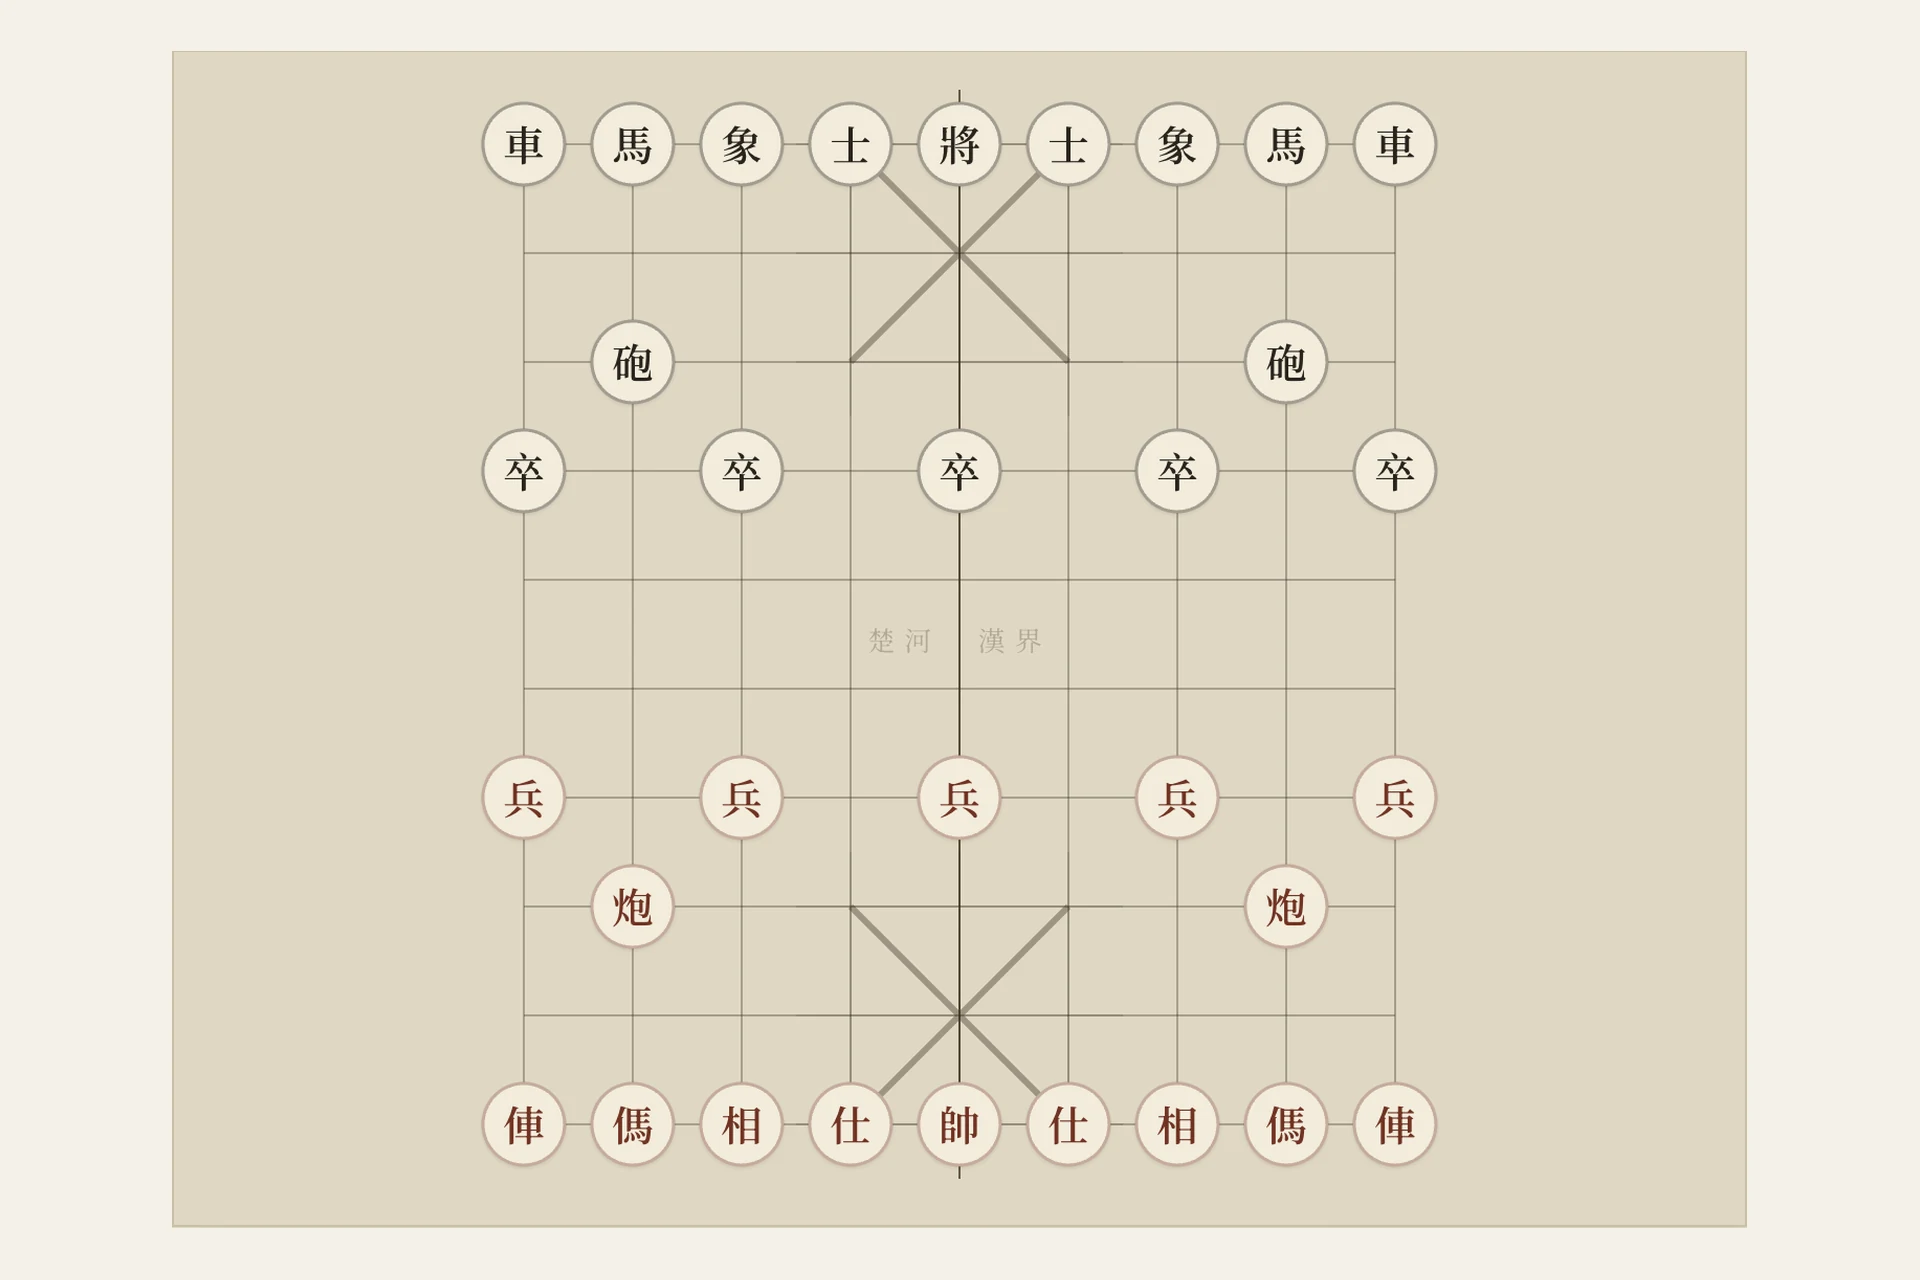
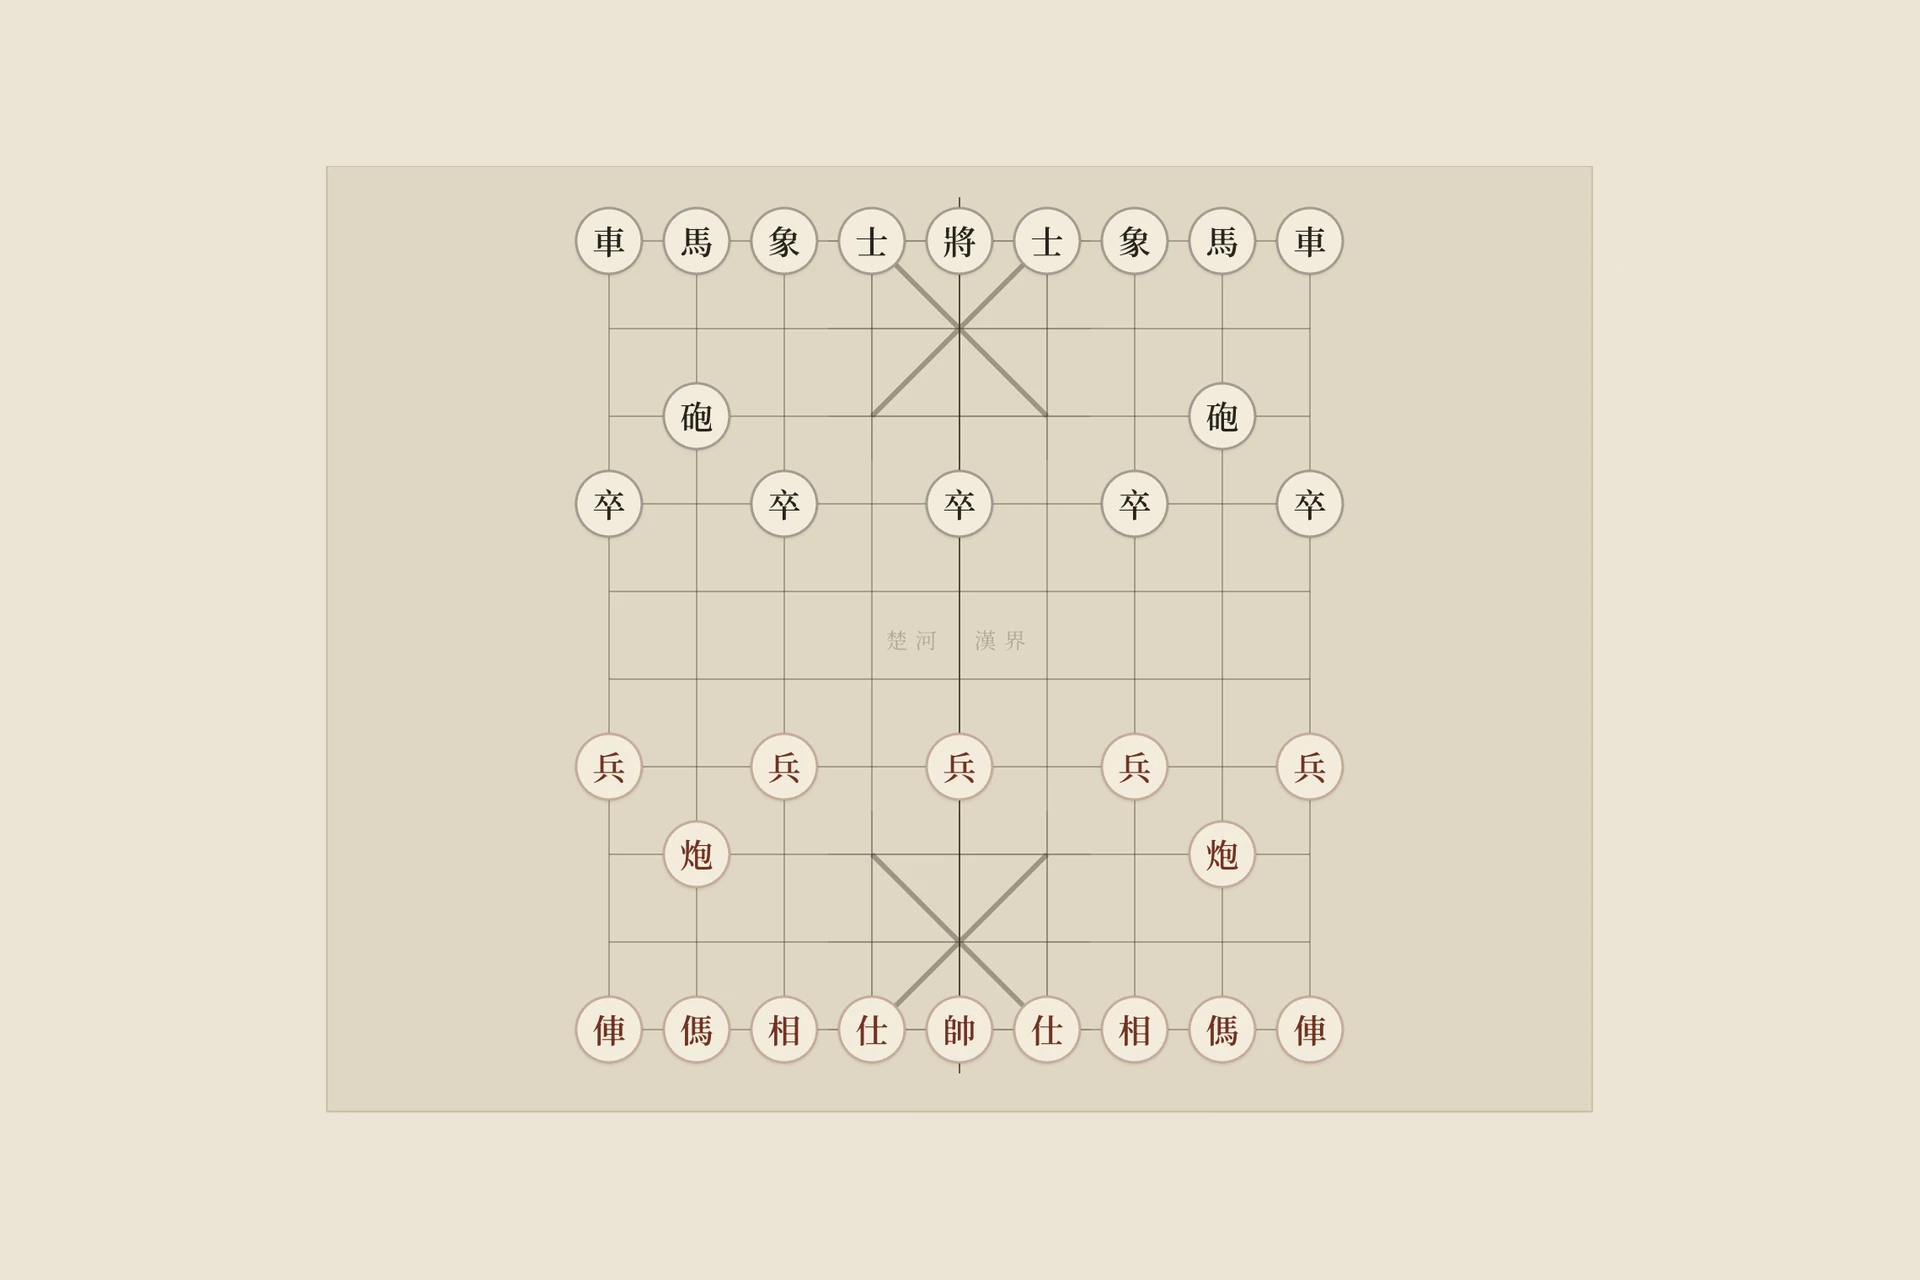
Polish Xiangqi to ship-quality: copy, schema, hints, on-brand share art.
Trim the hub card, add a no-JS fallback and richer VideoGame JSON-LD, drop the redundant hint stripe, and regenerate the cover/OG from a clean live board with the title typeset in the site's own serif. Live-verified play, undo, flip, and real-engine notation.

Changed region(s): [[0.25, 0.0625, 0.75, 0.5625], [0.25, 0.5, 0.75, 0.9375]]

diff --git a/minigames/xiangqi/index.html b/minigames/xiangqi/index.html
@@ -33,16 +33,28 @@
   "name": "紙上象棋",
   "url": "https://yykan.uk/minigames/xiangqi/",
   "description": "一盤你可以輸得明白嘅象棋：行完一盤，陪你睇返邊一步改變咗全局、點解、本來可以點行。",
+  "image": "https://yykan.uk/images/og-xiangqi.png",
   "inLanguage": ["zh-HK", "en-GB"],
   "applicationCategory": "Game",
+  "genre": "Board game",
+  "playMode": "SinglePlayer",
   "gamePlatform": "Web browser",
+  "operatingSystem": "Any modern web browser",
   "isPartOf": { "@type": "WebSite", "name": "言又勤", "url": "https://yykan.uk/" },
   "author": { "@type": "Person", "name": "言又勤", "alternateName": "Yin Yau Kan" }
 }
 </script>
 </head>
 <body>
-  <div id="app"></div>
+  <div id="app">
+    <noscript>
+      <p style="max-width: 32rem; margin: 15vh auto; padding: 0 1.5rem; font-family: Georgia, 'Noto Serif HK', serif; line-height: 1.7; text-align: center; color: #3d2f1f;">
+        紙上象棋要開住 JavaScript 先行到。開返之後 refresh 一次，就可以同引擎行一盤，完局幫你覆盤。<br><br>
+        <span lang="en">Xiangqi on Linen needs JavaScript enabled — turn it on and reload to play, then review.</span><br><br>
+        <a href="/minigames/" style="color: #3a5a3a;">← 返去小遊戲</a>
+      </p>
+    </noscript>
+  </div>
   <script type="module">
     import { boot } from './src/main.js';
     boot(document.getElementById('app'));

diff --git a/minigames/xiangqi/game.css b/minigames/xiangqi/game.css
@@ -219,16 +219,6 @@ button, select {
   box-shadow: 0 0 0 2px var(--accent);
 }
 
-.xq-cell.is-hint::before {
-  background: var(--accent);
-  width: 2px;
-}
-
-.xq-cell.is-hint:not(:has(.xq-piece)) .xq-hint-dot,
-.xq-cell.is-hint:not(:has(.xq-piece))::after {
-  /* destination hint: soft accent node */
-}
-
 .xq-cell.is-hint:not(:has(.xq-piece)) {
   background: radial-gradient(circle at center, rgba(58, 90, 58, 0.35) 0 14%, transparent 15%);
 }

diff --git a/minigames/index.html b/minigames/index.html
@@ -115,7 +115,7 @@
     },
     {
       title: "紙上象棋 · Xiangqi on Linen",
-      excerpt: "唔一定要識玩先嚟。行完一盤，佢會陪你睇返：邊一步改變咗全局、點解、本來可以點行。A quiet game of Chinese chess — play, then see what actually mattered.",
+      excerpt: "行完一盤，佢會陪你睇返：邊一步改變咗全局、點解、本來可以點行。A quiet game of Chinese chess — play, then see what actually mattered.",
       cover: "/images/xiangqi-cover.webp",
       url: "/minigames/xiangqi/",
       tags: ["象棋", "board"],

diff --git a/kanblog-architecture.md b/kanblog-architecture.md
@@ -339,7 +339,7 @@ Vite re-hashes `index-<hash>.js/.css` on every build, so **updating the game = u
 
 | Date | Change |
 |---|---|
-| **2026-07-19 — 紙上象棋 · Xiangqi on Linen** | New MiniGame at `/minigames/xiangqi/`: Library Linen Chinese chess with complete rules, a vendored Pikafish WebAssembly engine running in a Worker, three thinking-time levels, and Pikafish-powered post-game review. Move history and review now use familiar Chinese notation (`炮二平五`) instead of raw ICCS coordinates, with replay buttons for the played and recommended moves. A small alpha-beta engine remains as a graceful fallback. The game route is cross-origin isolated for Pikafish `SharedArrayBuffer`; GPLv3, source provenance and pinned binary hashes are shipped beside the engine. Game Contract registrations, live-game screenshot cover (`images/xiangqi-cover.webp`), and share image (`images/og-xiangqi.png`) are included. |
+| **2026-07-19 — 紙上象棋 · Xiangqi on Linen** | New MiniGame at `/minigames/xiangqi/`: Library Linen Chinese chess with complete rules, a vendored Pikafish WebAssembly engine running in a Worker, three thinking-time levels, and Pikafish-powered post-game review. Move history and review now use familiar Chinese notation (`炮二平五`) instead of raw ICCS coordinates, with replay buttons for the played and recommended moves. A small alpha-beta engine remains as a graceful fallback. The game route is cross-origin isolated for Pikafish `SharedArrayBuffer`; GPLv3, source provenance and pinned binary hashes are shipped beside the engine. Game Contract registrations, live-game screenshot cover (`images/xiangqi-cover.webp`), and share image (`images/og-xiangqi.png`, board + typeset title rendered in the site's own Noto Serif HK) are included. **Post-launch review pass:** fixed a cross-origin-isolation regression — `_headers` matched both `/minigames/xiangqi/` and `/minigames/xiangqi/*`, emitting COOP/COEP twice, whose combined values are invalid so browsers silently disabled `SharedArrayBuffer` and forced the fallback engine (collapsed to a single `/*` rule). Copy rewritten player-first (why a non-player would care, not a feature list) with engine jargon removed from all in-game strings (Pikafish name kept only in the collapsed licence colophon); added a no-JS `<noscript>` fallback and enriched VideoGame JSON-LD (`image`/`genre`/`playMode`). Live-verified: real-engine reply + Chinese notation, undo rolls back both plies, board flip + engine-first when playing Black. |
 | **2026-07-06 — philquiz v3: balance overhaul + share loop** | Full audit-driven update of the philosophy quiz. **Balance:** simulation audit showed v2 scoring let low-magnitude centroids capture most takers (uniform-random answering gave Laozi 37% of top-1 results; six thinkers ~0% reachable; a persona built to *be* Wang Yangming matched him only 2.2% of the time, 95% swallowed by Confucius). Fixes: (1) matching switched to **cosine distance** — direction, not magnitude, so consistent answering no longer distorts the match (`SCORING_VERSION 3`); (2) centroids re-derived by **projecting canonical personas onto the quiz's own answer manifold** (mean answer-vector at low softmax temperature); (3) ~20 questions reworded/reweighted to remove social-desirability drift (the "wise-sounding" option was systematically feeding epistemology+/stance+) plus two confirmed sign errors (q17b structural-analysis coded as experience; q15c history-embeddedness coded as innovation); (4) **two new discriminator questions** (q10b sources-of-guidance, q31b means-vs-staying) so near-twin pairs (Gandhi↔Wang Yangming at cosine distance 0.01, Confucius↔Ibn Rushd) became separable — quiz is now **36 questions** (27 core + 9 scenarios). Post-fix metrics: uniform-random top-1 max 11% (was 37%), all 16 reachable, persona self-recovery ≥51% for 15/16 (Arendt↔Du Bois remain honest near-twins — always each other's secondary match). Validation harness rewritten at `source/scripts/simulate.mjs` — **run it after any weight/centroid change**. **Content fixes:** Mill's zh name 史特勞斯→史都華 (was "John Strauss Mill"), Du Bois zh barQuote replaced with a faithful colour-line translation (zh/en previously two different quotes), five simplified→traditional artifacts (亞里士多德/烏托邦/白面具/鄰里/兌現 + 嘗試), 太陽底下, "redrew", Nietzsche's collapse dated 1889 aged 44 (not「晚年」), Mill barQuote zh/en aligned to the full sentence. **UX/share loop:** per-philosopher static landing pages at `r/<id>/` with result-specific og:title/description (share URLs point there; inline JS redirects into the app preserving `?axes=`; noindex; generated by `source/scripts/gen-share-pages.mjs`); canvas-drawn 1080×1920 Library-Linen result card (download / native share sheet); **back button**; resume-or-restart prompt on returning mid-quiz; halfway interstitial; ⓘ axis glossaries now tap-to-expand (were hover-only `title` attrs, dead on mobile); toast replaces `alert()`; intro disclaimers merged to one + 16-name teaser strip; the tautological「第 1 位共鳴」line replaced with best-aligned-axis stat; q25 register normalised to 書面語; stale-localStorage guard. Storage key bumped to `yykan-philquiz-v3`; legacy `?r=&axes=` share links still resolve. Verified: tsc + production build, full browser click-through (back/resume/share-view/card on desktop + mobile widths), data-integrity script (36 questions, 3 options each, valid axes, 16 landing pages), simulation targets met. Bundle rebuilt (`index-Br35b2WF.js` / `index-BMqRhabt.css`), stale hashed assets removed per Game Contract; gallery-hub excerpt + README counts updated. |
 | **2026-06-15 — Game Contract for MiniGames** | Reverse-engineered catspuzzle + the site conventions into a written **Game Contract** (see MiniGames section): the model is "standardise the shell, keep the interior free" — gameplay UI varies per game, but every game honours a fixed outer contract (frame/tone + Library Linen tokens, page meta head block, 3 synchronized registrations [GAMES / STATIC_PAGES / llms.txt], 1200×630 PNG share image, asset hygiene). Includes copy-paste head-meta block (title/canonical/OG/Twitter/VideoGame JSON-LD) and the `:root` tokens snippet. Prep for an incoming new game — built so a new game ships consistent without re-deriving the contract each time. |
 | **2026-06-15 — referential-integrity housekeeping** | From a cross-file reference audit (all link/asset/contract checks passed). Two tidy-ups: (1) deleted 4 orphan placeholder SVGs `images/sample-1…4.svg` (zero references anywhere — scaffold art from the initial upload; `catspuzzle-cover.svg` is real and kept). (2) **Asset-path convention unified:** all standalone top-level pages now use absolute `/style.css` (was mixed — `index.html`/`about.html` used relative `style.css`, `404.html`/`minigames/` already absolute); `index.html` script also `app.js`→`/app.js`. **Convention going forward:** top-level pages use absolute `/…` for assets; posts keep their coherent relative `../…` scheme (style.css, post.js, images, links — also keeps the editor generator simple). |